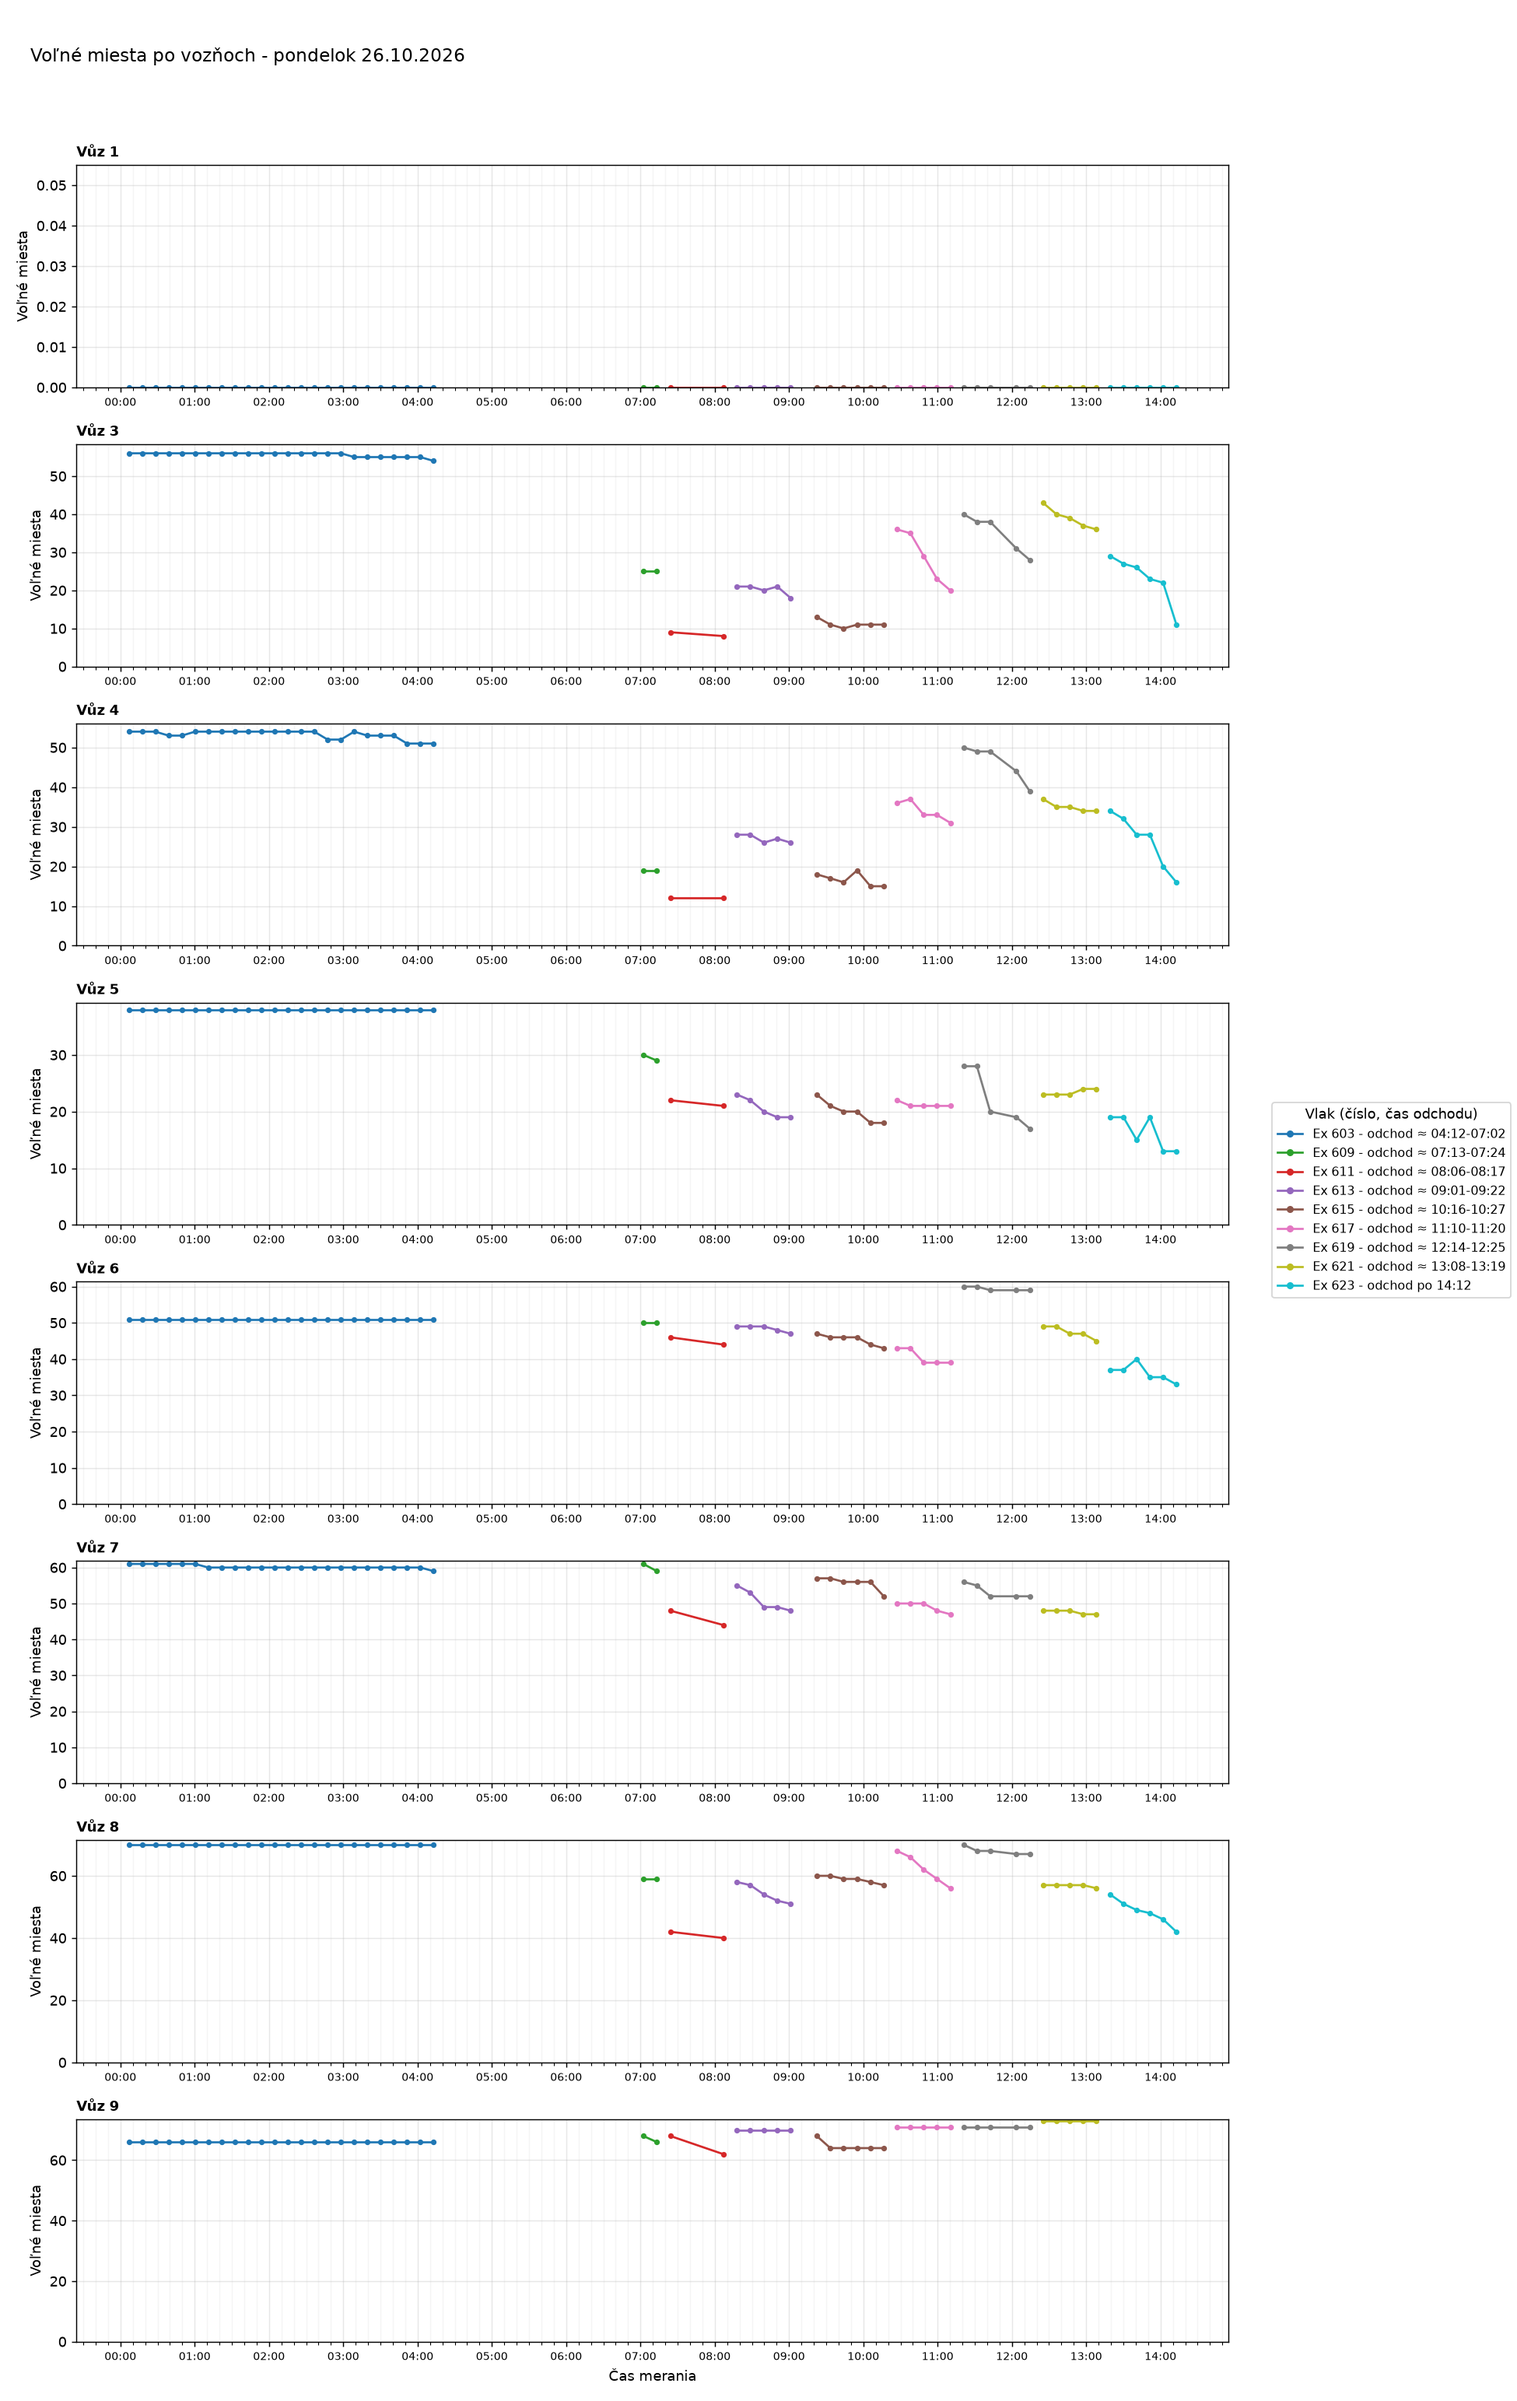
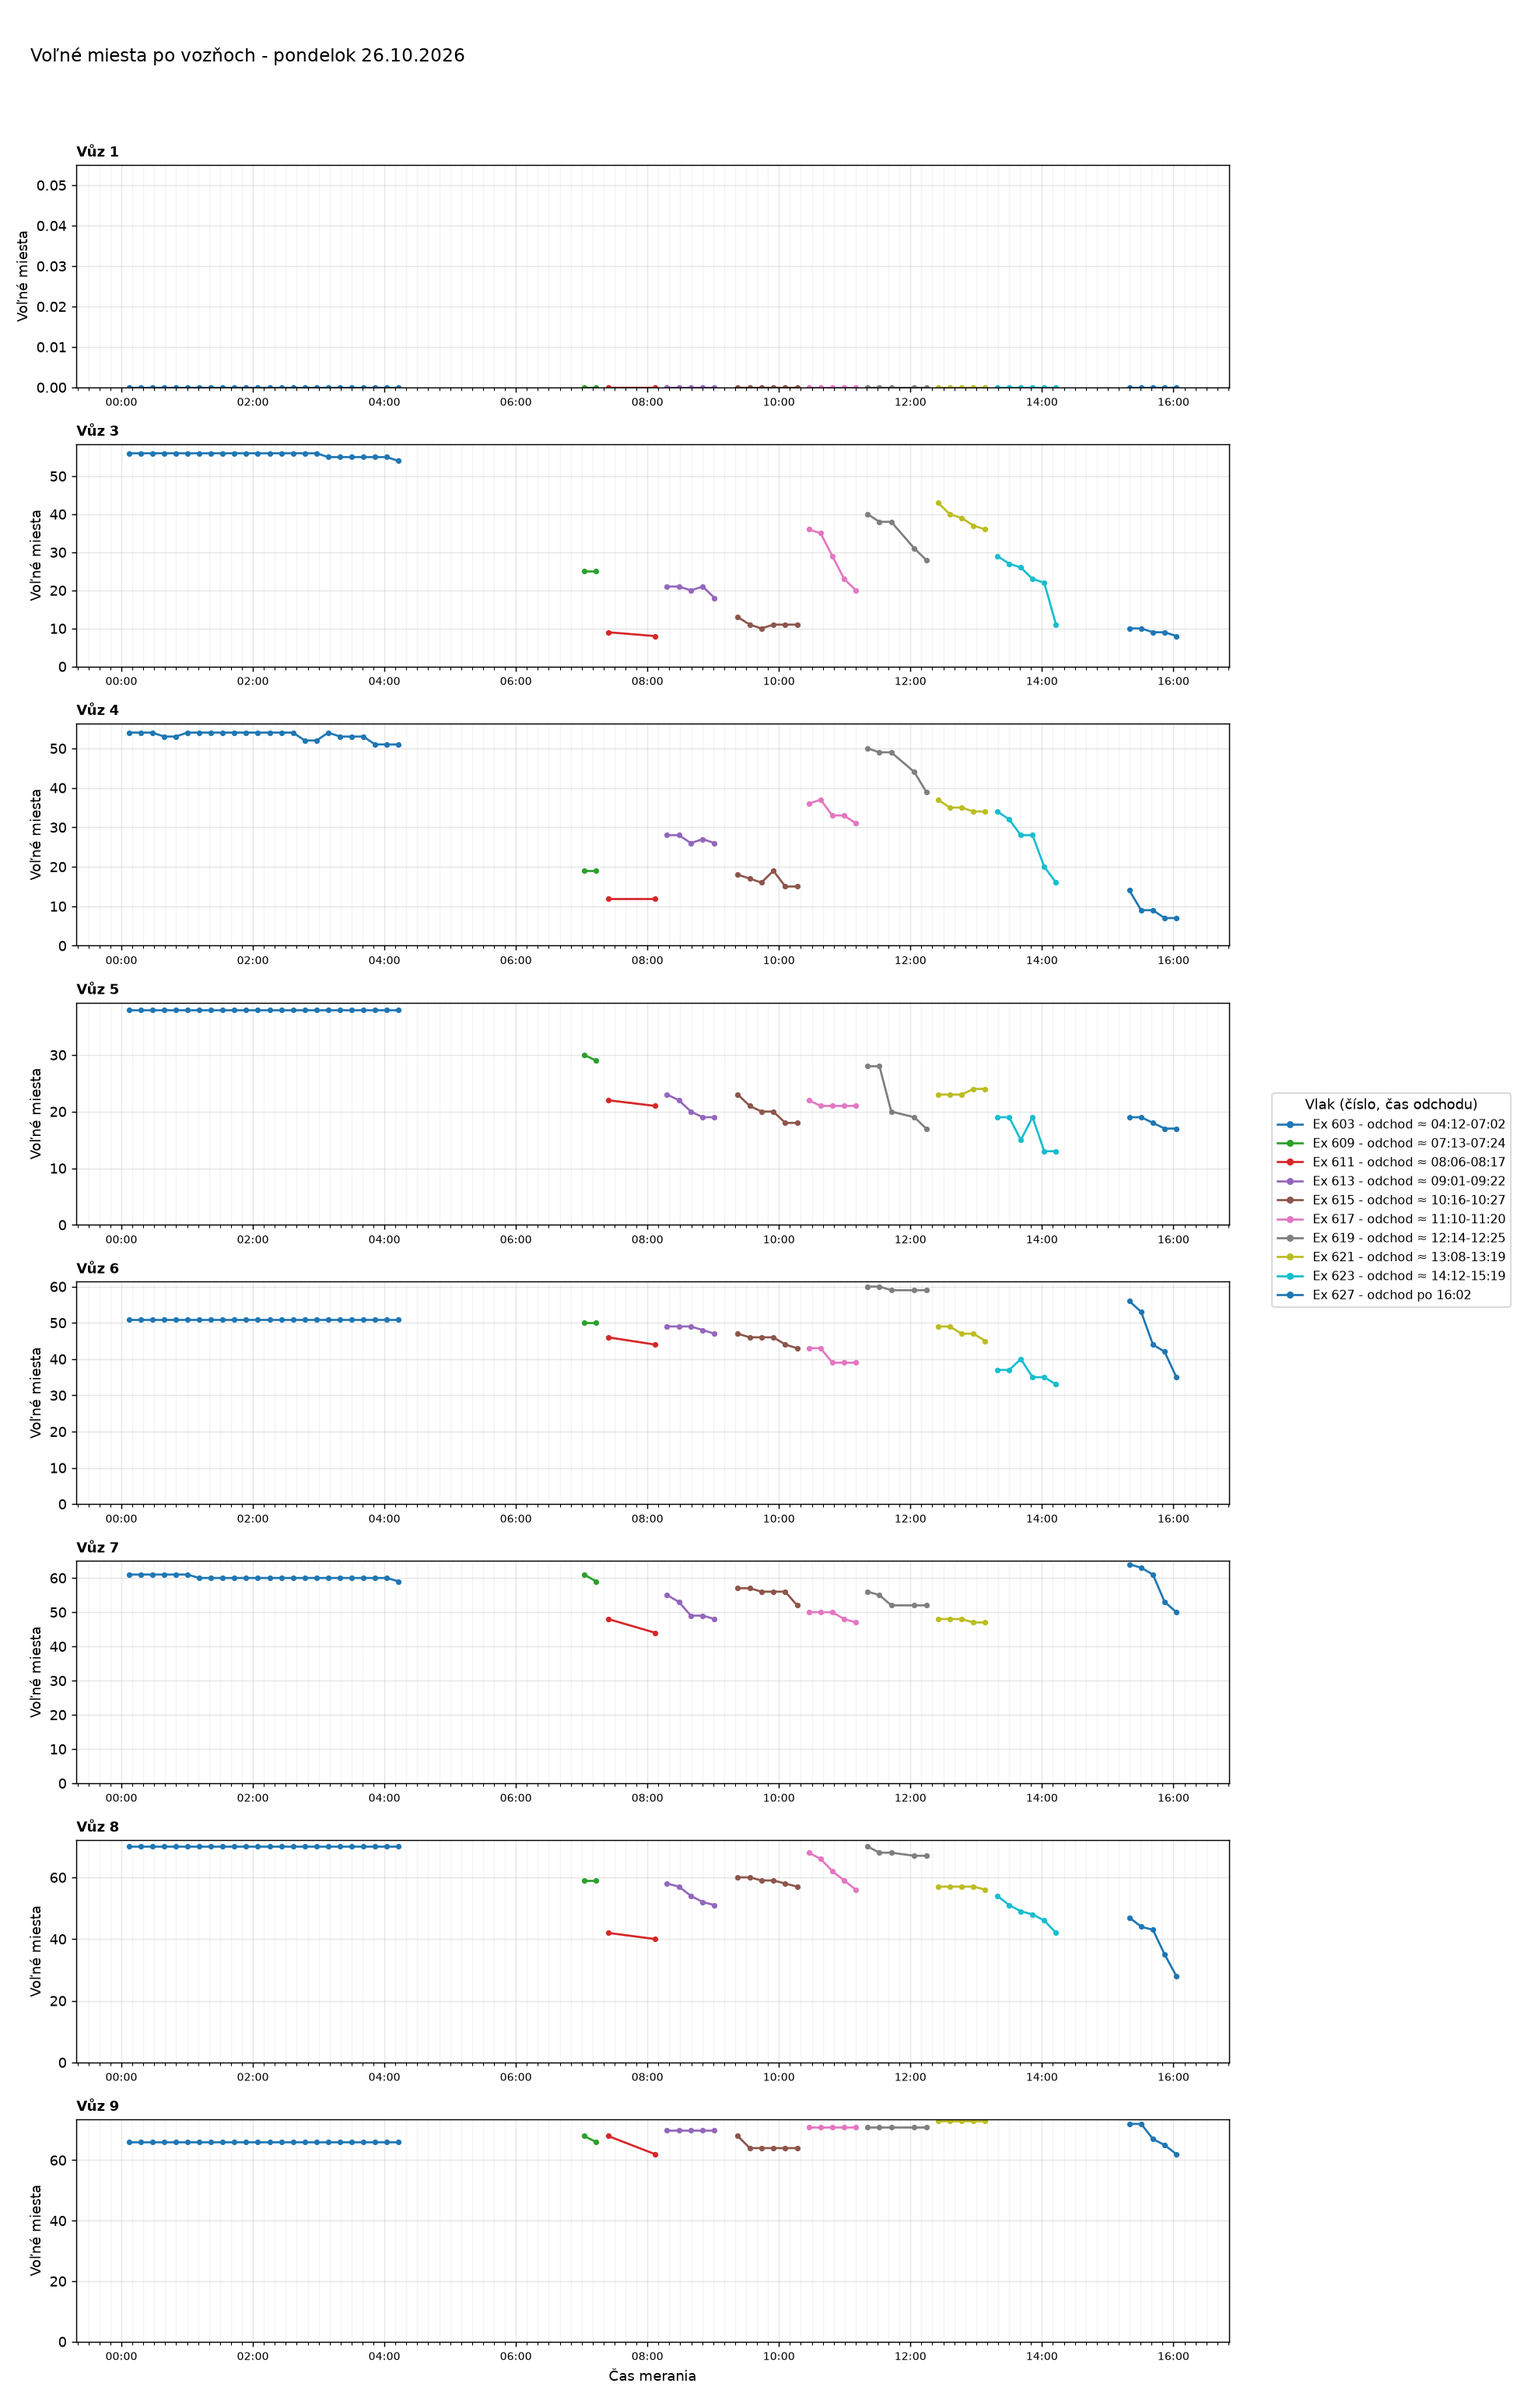
Aktualizácia grafov 2026-10-26 16:07

diff --git a/index.html b/index.html
@@ -35,7 +35,7 @@ h2.oddiel{margin:36px 0 0;font-size:1.4rem}
 <body>
 <main>
 <h1>Voľné miesta vo vlakoch</h1>
-<p class="muted">Posledné meranie: 26.10.2026 14:12 ·
+<p class="muted">Posledné meranie: 26.10.2026 16:02 ·
 <a href="data/obsadenost_data.csv">stiahnuť dáta (CSV)</a></p>
 <nav class="nav"><a href="#suhrn">Súhrn</a><a href="#statistiky">Štatistiky</a><a href="#historia">História grafov</a></nav>
 
@@ -44,7 +44,7 @@ h2.oddiel{margin:36px 0 0;font-size:1.4rem}
 <div class="tablewrap"><table>
 <thead><tr><th>Deň</th><th>Meraní</th><th>Vlakov</th><th>Čas meraní</th></tr></thead>
 <tbody>
-<tr><td><a href="#d2026-10-26">pondelok 26.10.2026</a></td><td>60</td><td>9</td><td>00:06-14:12</td></tr>
+<tr><td><a href="#d2026-10-26">pondelok 26.10.2026</a></td><td>65</td><td>10</td><td>00:06-16:02</td></tr>
 <tr><td><a href="#d2026-10-25">nedeľa 25.10.2026</a></td><td>101</td><td>15</td><td>00:01-23:56</td></tr>
 <tr><td><a href="#d2026-10-24">sobota 24.10.2026</a></td><td>98</td><td>14</td><td>00:10-23:50</td></tr>
 <tr><td><a href="#d2026-10-23">piatok 23.10.2026</a></td><td>64</td><td>13</td><td>07:25-23:49</td></tr>
